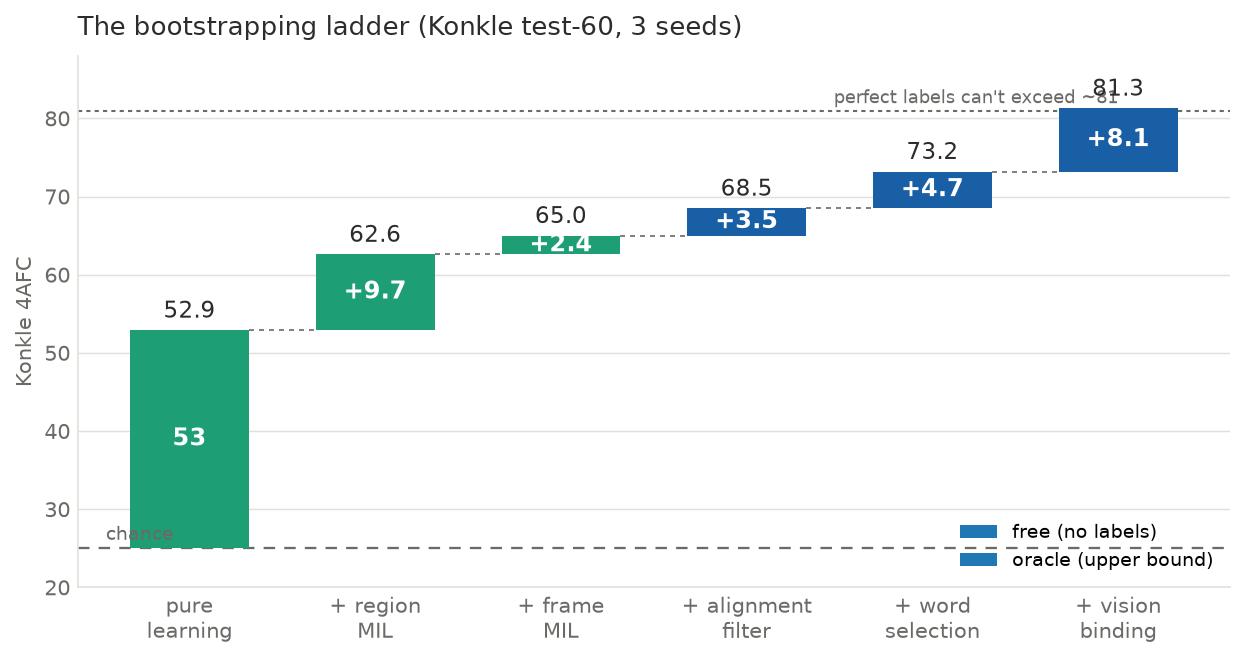
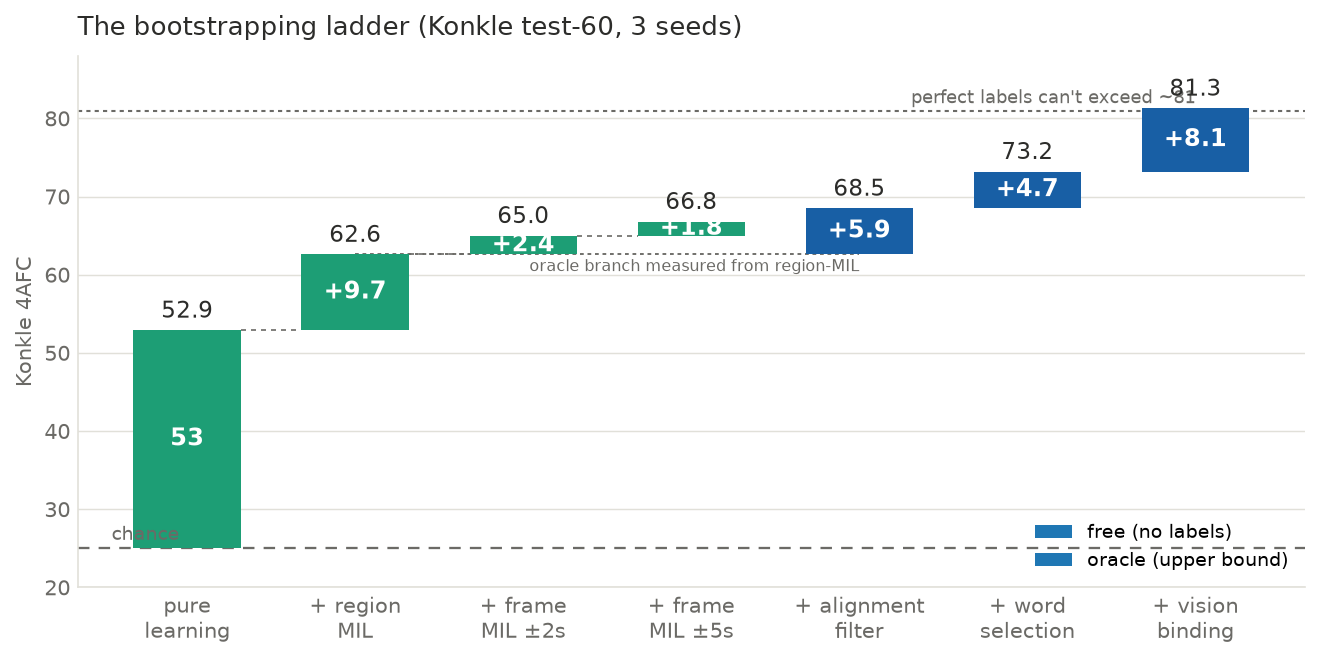
ch4/ch8: fix ladder branch semantics + propagate +-5s free rung
The ladder conflated a chain (free rungs) with a branch (oracle rungs).
Oracle rungs are measured from region-MIL 62.6, not stacked on frame-MIL,
so the alignment filter's +5.9 (68.5-62.6) read as inconsistent with the
absolute 65.0->68.5 jump. Fixes:
- waterfall() takes explicit per-step base; oracle branch floors at 62.6
  with a guide line + the filter bar correctly showing +5.9.
- ladder table gains a 'from' column; add +-5s free rung (66.8+-0.6).
- surface the result: free spatial+temporal selection (66.8) lands within
  1.7 of the alignment-filter oracle (68.5) -> which-moment is nearly free,
  the residual oracle gap is which-referent.
- conclusion updated: unaided ~67, gap to ceiling ~14.

diff --git a/src/make_ladder_figs.py b/src/make_ladder_figs.py
@@ -10,21 +10,32 @@ FREE, ORACLE, NULLC = "#1d9e75", "#185fa5", "#b0655a"
 INK, SUB, GRID = "#2c2c2a", "#6b6a66", "#e1e0d9"
 
 
-def waterfall(steps, out, title, oracle_from=None, chance=25, ceiling=None, ylim=(20, 88)):
-    fig, ax = plt.subplots(figsize=(8.4, 4.5), dpi=150)
+def waterfall(steps, out, title, oracle_from=None, chance=25, ceiling=None, ylim=(20, 88),
+              branch_base=None):
+    """steps: (label, value) chains from prev, or (label, value, base) to set an explicit floor.
+    branch_base: (value, from_index, to_index) draws a faint guide showing where the oracle
+    branch leaves the free chain (e.g. the region-MIL baseline the oracle rungs are measured from)."""
+    fig, ax = plt.subplots(figsize=(8.9, 4.5), dpi=150)
     prev = chance
-    for i, (lab, val) in enumerate(steps):
+    if branch_base is not None:
+        bv, bi, bj = branch_base
+        ax.plot([bi, bj], [bv, bv], color=SUB, lw=0.9, ls=(0, (2, 2)), zorder=1)
+        ax.text(bj, bv - 0.6, "oracle branch measured from region-MIL", color=SUB, fontsize=7.6,
+                ha="right", va="top")
+    for i, step in enumerate(steps):
+        lab, val = step[0], step[1]
+        base = step[2] if len(step) > 2 else (chance if i == 0 else prev)
         oracle = oracle_from is not None and i >= oracle_from
         col = ORACLE if oracle else FREE
-        bot, top = (chance, val) if i == 0 else (min(prev, val), max(prev, val))
+        bot, top = min(base, val), max(base, val)
         ax.bar(i, top - bot, bottom=bot, width=0.64, color=col, zorder=3)
-        d = val - (chance if i == 0 else prev)
+        d = val - base
         lbl = ("%.0f" % val) if i == 0 else ("+%.1f" % d)
         ax.text(i, bot + 0.5 * (top - bot), lbl, ha="center", va="center", color="white",
                 fontsize=11.5, zorder=4, fontweight="bold")
         ax.text(i, val + 0.9, "%.1f" % val, ha="center", va="bottom", color=INK, fontsize=11, zorder=4)
-        if i:
-            ax.plot([i - 1 + 0.32, i - 0.32], [prev, prev], color=SUB, lw=0.8, ls=(0, (3, 3)), zorder=2)
+        if i and len(step) <= 2:
+            ax.plot([i - 1 + 0.32, i - 0.32], [base, base], color=SUB, lw=0.8, ls=(0, (3, 3)), zorder=2)
         prev = val
     ax.axhline(chance, color=SUB, lw=1.1, ls=(0, (5, 4)))
     ax.text(-0.45, chance + 0.5, "chance", color=SUB, fontsize=9, va="bottom")
@@ -45,11 +56,14 @@ def waterfall(steps, out, title, oracle_from=None, chance=25, ceiling=None, ylim
     fig.tight_layout(); fig.savefig(out, bbox_inches="tight"); plt.close(fig); print("wrote", out)
 
 
-# (a) the full ladder
-waterfall([("pure\nlearning", 52.9), ("+ region\nMIL", 62.6), ("+ frame\nMIL", 65.0),
-           ("+ alignment\nfilter", 68.5), ("+ word\nselection", 73.2), ("+ vision\nbinding", 81.3)],
+# (a) the full ladder. Free rungs chain cumulatively; the oracle rungs branch from the
+# region-MIL baseline (62.6), so each carries an explicit base = the value it is measured from.
+waterfall([("pure\nlearning", 52.9), ("+ region\nMIL", 62.6),
+           ("+ frame\nMIL ±2s", 65.0), ("+ frame\nMIL ±5s", 66.8),
+           ("+ alignment\nfilter", 68.5, 62.6), ("+ word\nselection", 73.2, 68.5),
+           ("+ vision\nbinding", 81.3, 73.2)],
           OUT / "fig_waterfall_ladder.png", "The bootstrapping ladder (Konkle test-60, 3 seeds)",
-          oracle_from=3, ceiling=81, ylim=(20, 88))
+          oracle_from=4, ceiling=81, ylim=(20, 88), branch_base=(62.6, 1, 4))
 
 # (b) the label decomposition (from the region-MIL baseline)
 waterfall([("region-MIL\nbaseline", 62.6), ("+ filter", 68.5), ("+ word\nselection", 73.2),
